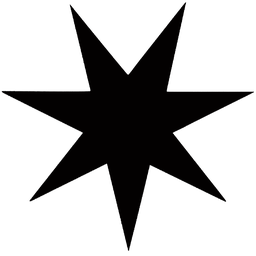
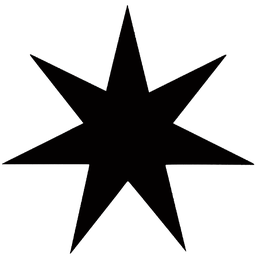
Admin: field ids from useId, so the Content tab hydrates clean
Math.random gave the server and the client different ids for every label
and input, and React warned on every Content page. The inverted star PNGs
were regenerated on disk and not yet committed; they ride along.

Claude-Session: https://claude.ai/code/session_011vddsKpD3gaDcjfxTSXdj7

Changed region(s): [[0.0, 0.0, 1.0, 1.0]]

diff --git a/src/components/admin/ContentEditor.tsx b/src/components/admin/ContentEditor.tsx
@@ -1,6 +1,6 @@
 "use client";
 
-import { useEffect, useState } from "react";
+import { useEffect, useId, useState } from "react";
 import { useRouter } from "next/navigation";
 import type { FieldDef, ListDef, PageSchema } from "@/lib/content/schema";
 import { ImageField } from "./ImageField";
@@ -15,7 +15,8 @@ function when(iso: string): string {
 }
 
 function Field({ def, value, onChange }: { def: FieldDef; value: string; onChange: (v: string) => void }) {
-  const id = `f-${def.key}-${Math.random().toString(36).slice(2, 7)}`;
+  // stable across server and client, so the label's htmlFor hydrates clean
+  const id = `f-${def.key}-${useId()}`;
   return (
     <div className="adm-field">
       <label className="adm-label" htmlFor={id}>{def.label}</label>
